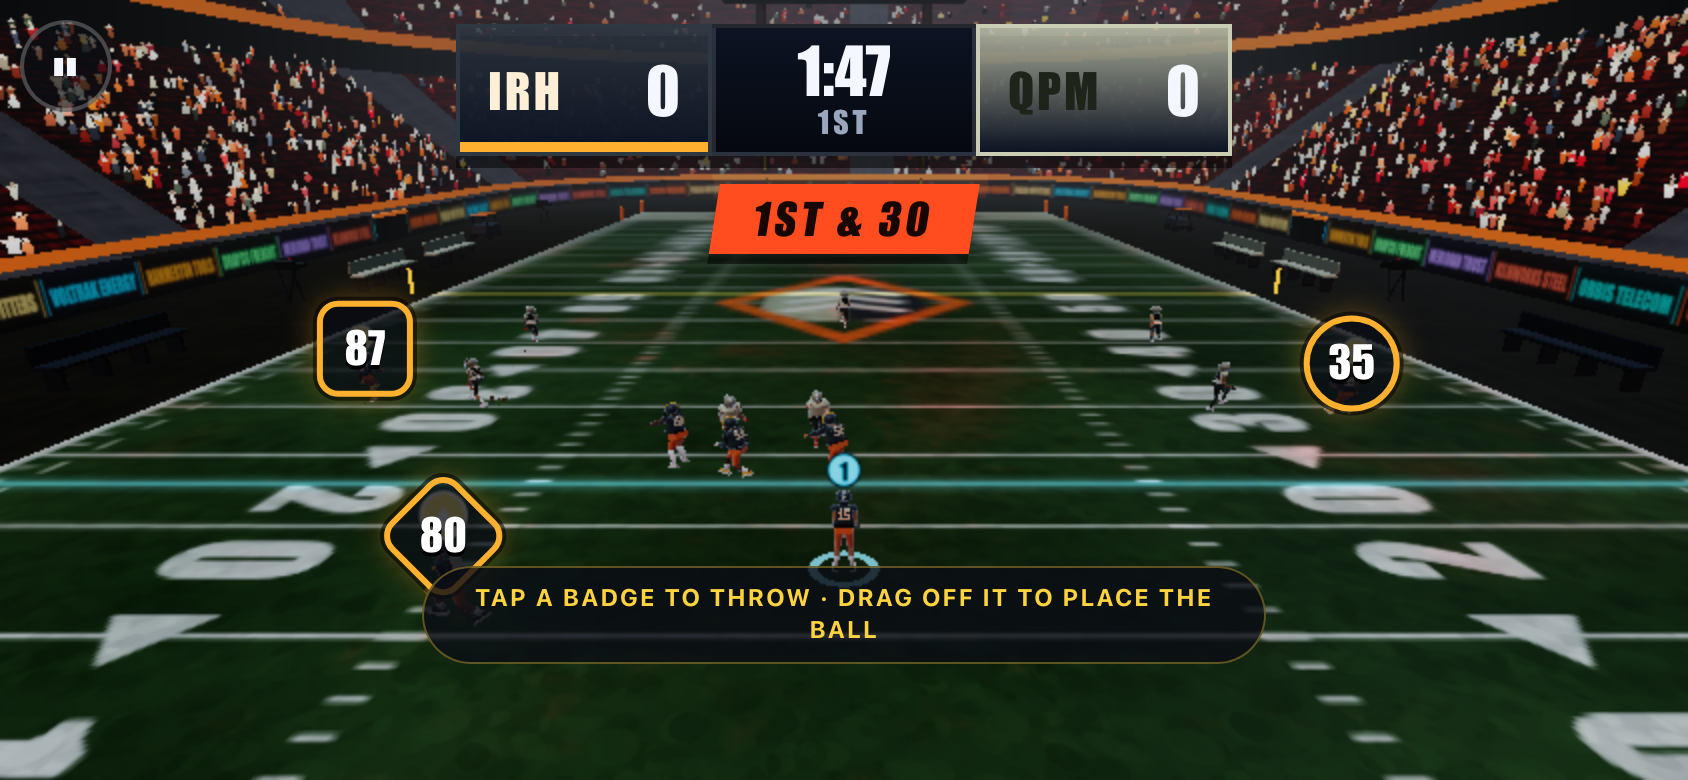
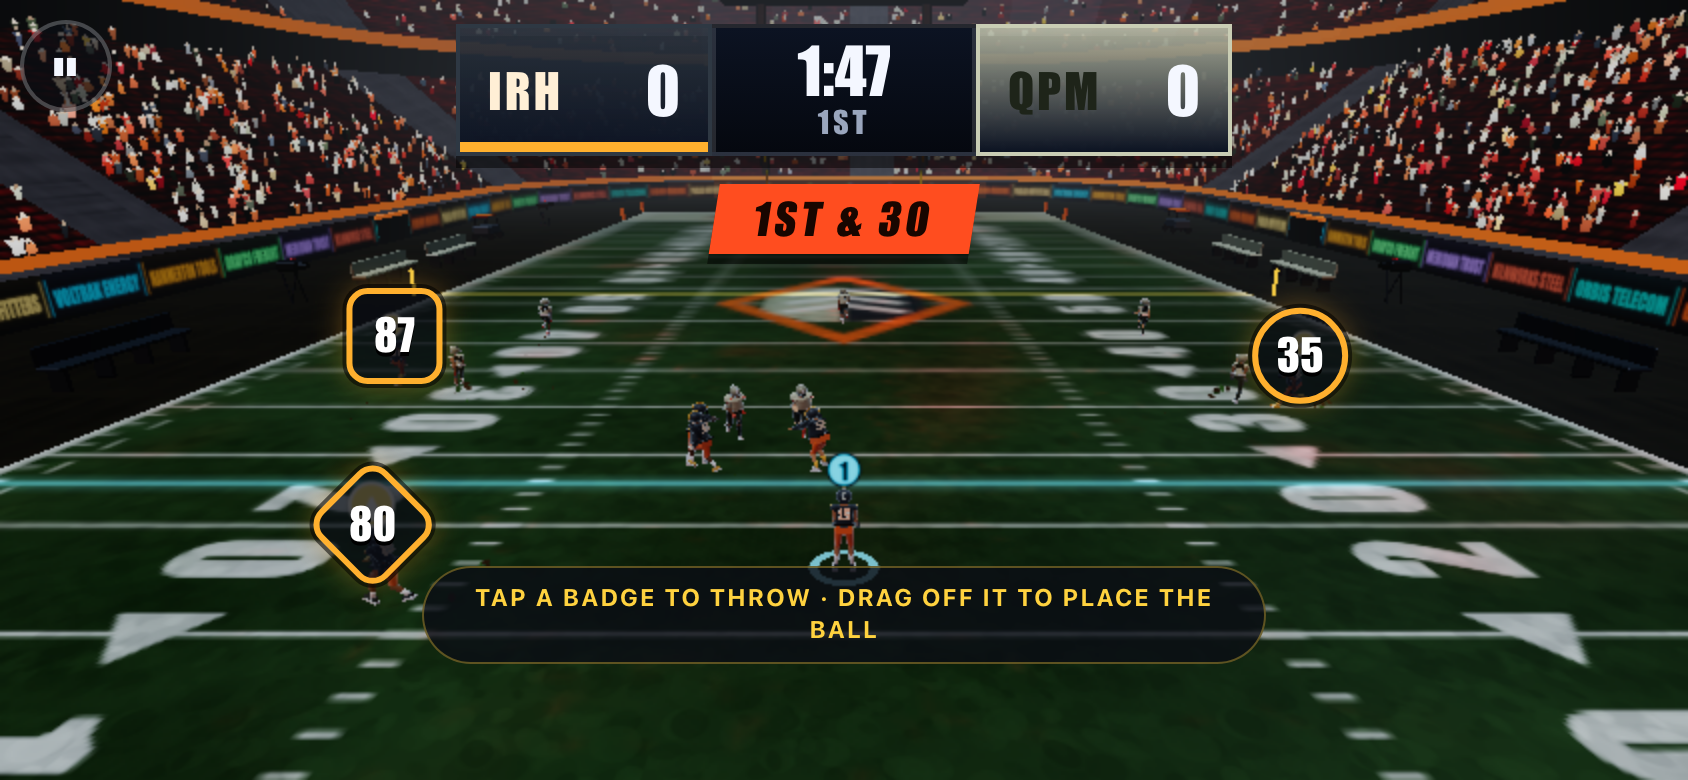
Wave 4 (part 4): persistence v2 live — boot restore with last-known-good fallback, write-through revisions
- bootPersistence() before Game construction: loads newest valid revision (or recovers an
  older one on checksum failure, or migrates bare v1), primes the save cache
- every settled writeSave() also lands as a checksummed IndexedDB revision (fire-and-forget;
  localStorage remains the synchronous emergency copy)
- persistenceV2 flag on; 7/7 driverush, 20/20 lifecycle, 32/32 touch, 255 unit tests

diff --git a/src/main.ts b/src/main.ts
@@ -12,6 +12,22 @@ import { SeasonScreen } from './ui/screens/season.ts';
 import { PracticeScreen } from './ui/screens/practice.ts';
 import { PlayEditorScreen } from './ui/screens/playEditor.ts';
 import { TEAMS, getStadium } from './data/index.ts';
+import { flag } from './app/featureFlags.ts';
+import { PersistenceV2 } from './persistence/persistenceV2.ts';
+import { attachV2Sink, primeCache } from './persistence/save.ts';
+
+async function bootPersistence(): Promise<void> {
+  if (!flag('persistenceV2')) return;
+  try {
+    const p2 = new PersistenceV2();
+    await p2.init();
+    const r = await p2.load();
+    if (r.payload) primeCache(r.payload);
+    if (r.recovered) console.warn('[save] newest revision was corrupt; restored last known good');
+    // Settled writes flow through as checksummed revisions; fire-and-forget by design.
+    attachV2Sink((payload) => { void p2.write(payload); });
+  } catch { /* v2 is an upgrade, never a boot blocker */ }
+}
 
 function boot(): void {
   const canvas = document.getElementById('gl') as HTMLCanvasElement;
@@ -68,5 +84,6 @@ function boot(): void {
   window.addEventListener('error', (e) => console.error('[GO]', e.message));
 }
 
-if (document.readyState === 'loading') document.addEventListener('DOMContentLoaded', boot);
-else boot();
+const start = (): void => { void bootPersistence().then(boot); };
+if (document.readyState === 'loading') document.addEventListener('DOMContentLoaded', start);
+else start();

diff --git a/src/persistence/save.ts b/src/persistence/save.ts
@@ -227,6 +227,16 @@ function migrate(parsed: unknown): SaveFile {
 
 let cache: SaveFile | null = null;
 
+/**
+ * Optional v2 write-through, attached at boot when the persistenceV2 flag is on. Every settled
+ * write also lands as a checksummed IndexedDB revision; reads still come from the fast local
+ * cache, with v2 recovery handled during boot before the first getSave().
+ */
+let v2Sink: ((payload: SaveFile) => void) | null = null;
+export function attachV2Sink(sink: (payload: SaveFile) => void): void { v2Sink = sink; }
+/** Boot-time restore: replace the cache with a recovered/migrated payload before first use. */
+export function primeCache(payload: SaveFile): void { cache = payload; }
+
 export function getSave(): SaveFile {
   if (!cache) cache = loadSave();
   return cache;
@@ -236,6 +246,7 @@ export function writeSave(next?: Partial<SaveFile>): void {
   const s = getSave();
   if (next) Object.assign(s, next);
   writeItem(SAVE_KEY, JSON.stringify(s));
+  v2Sink?.(s);
 }
 
 /**

diff --git a/src/app/featureFlags.ts b/src/app/featureFlags.ts
@@ -26,7 +26,7 @@ const DEFAULTS = {
   /** Wave 4 */
   mobileHomeV2: true,
   mobilePlayCardsV2: true,
-  persistenceV2: false,
+  persistenceV2: true,
   performanceGovernorV2: false,
 };
 

diff --git a/MOBILE_TRANSFORMATION_STATUS.md b/MOBILE_TRANSFORMATION_STATUS.md
@@ -30,7 +30,7 @@ strictly monotone; QUICK human validation pending).
 Done: W4-001 Mobile Home (PLAY DRIVE/RESUME front door), W4-003 three-card selector with More
 (`.ps-card` via recommendCards), W4-005 Drive Results with instant ONE MORE DRIVE, Drive Rush wired
 end-to-end (7/7 `npm run driverush` browser checks; 18/18 classic, 32/32 touch, 20/20 lifecycle
-still green). Persistence v2 CORE landed (src/persistence/persistenceV2.ts — envelopes/checksums/revisions/LKG/v1 migration; Game integration behind persistenceV2 flag still to do). Remaining: W4-002 orientation/manifest split, W4-004 FTUE, W4-006 renderer reuse,
+still green). Persistence v2 CORE landed (src/persistence/persistenceV2.ts — envelopes/checksums/revisions/LKG/v1 migration; Game integration LIVE behind persistenceV2 flag: async boot restore incl. corruption fallback + write-through revisions). W4-002 manifest landscape lock removed. Remaining:  W4-004 FTUE, W4-006 renderer reuse,
 W4-007 staged startup, W4-008 multi-axis governor, W4-009 persistence v2, W4-010 hosted PWA.
 
 ## Wave 0 results
